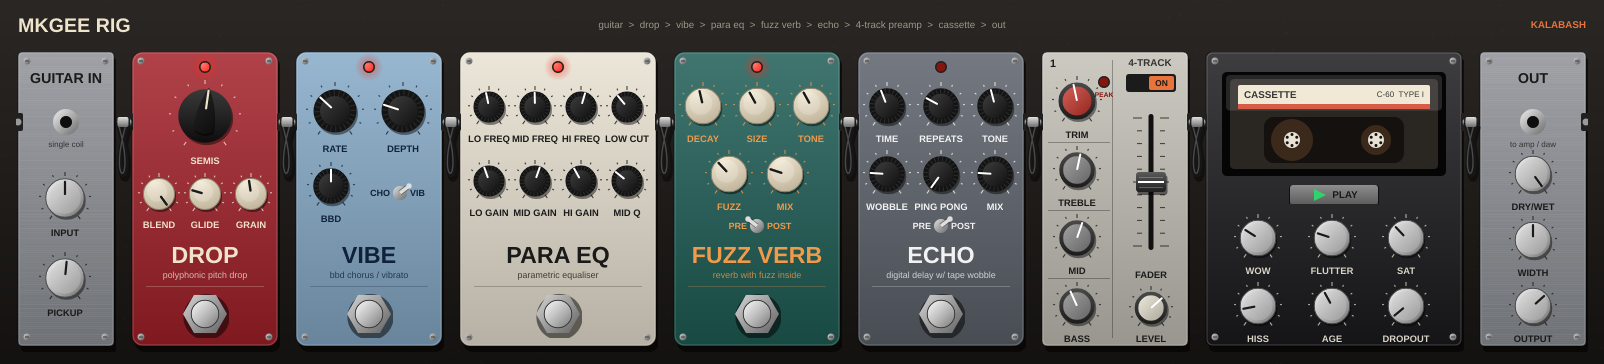
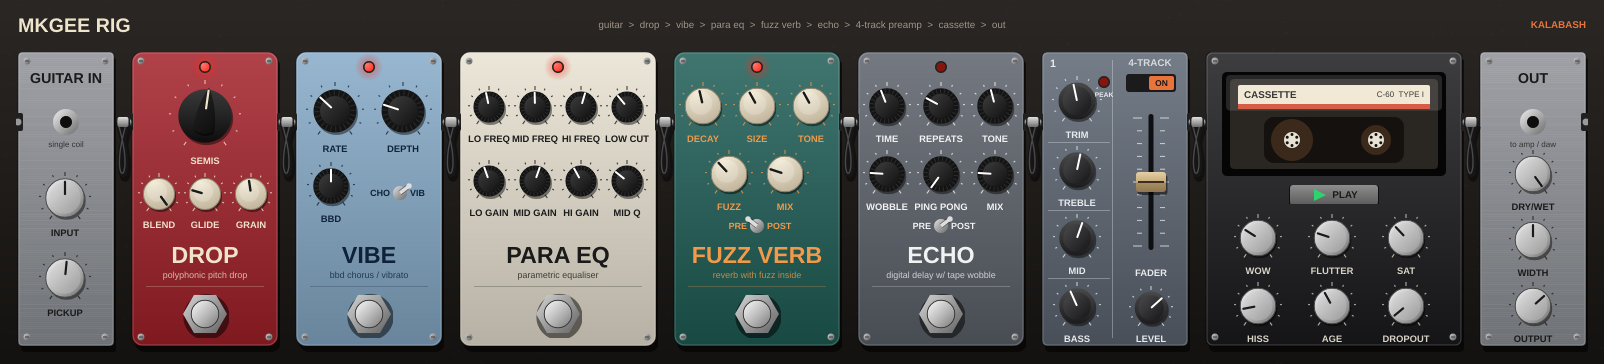
4-track strip in portastudio colours: slate panel, black knobs, tan fader
Claude-Session: https://claude.ai/code/session_01DY6jYK2dV1BTHacjKxHW16

Changed region(s): [[0.6234, 0.1209, 0.7481, 0.967]]

diff --git a/plugin/Source/PluginEditor.cpp b/plugin/Source/PluginEditor.cpp
@@ -142,15 +142,16 @@ void LookAndFeel::drawRotarySlider (Graphics& g, int x, int y, int w, int h, flo
 }
 
 void LookAndFeel::drawLinearSlider (Graphics& g, int x, int y, int w, int h, float pos, float, float,
-                                    Slider::SliderStyle, Slider&)
+                                    Slider::SliderStyle, Slider& s)
 {
     auto r = Rectangle<float> ((float) x, (float) y, (float) w, (float) h);
     const float cx = r.getCentreX();
+    const auto ink = Colour::fromString (s.getProperties().getWithDefault ("ink", "ff1a1a1a").toString());
     // slot
-    g.setColour (Colour (0xff111111));
+    g.setColour (Colour (0xff0d0f12));
     g.fillRoundedRectangle (cx - 2.5f, r.getY() - 4.0f, 5.0f, r.getHeight() + 8.0f, 2.5f);
     // scale
-    g.setColour (kInk.withAlpha (0.8f));
+    g.setColour (ink.withAlpha (0.8f));
     for (int i = 0; i <= 10; ++i)
     {
         const float yy = r.getY() + r.getHeight() * (float) i / 10.0f;
@@ -158,18 +159,16 @@ void LookAndFeel::drawLinearSlider (Graphics& g, int x, int y, int w, int h, flo
         g.drawLine (cx - 9.0f - len, yy, cx - 9.0f, yy, 1.0f);
         g.drawLine (cx + 9.0f, yy, cx + 9.0f + len, yy, 1.0f);
     }
-    // cap
+    // tan cap
     auto capR = Rectangle<float> (0, 0, 30.0f, 20.0f).withCentre ({ cx, pos });
     g.setColour (Colours::black.withAlpha (0.5f));
     g.fillRoundedRectangle (capR.translated (1.5f, 3.0f), 3.0f);
-    g.setGradientFill (ColourGradient (Colour (0xff5b5b5b), capR.getX(), capR.getY(), Colour (0xff1e1e1e), capR.getX(), capR.getBottom(), false));
+    ColourGradient grad (Colour (0xffe4cfa4), capR.getX(), capR.getY(), Colour (0xff8f7752), capR.getX(), capR.getBottom(), false);
+    grad.addColour (0.48, Colour (0xffc9ae7d));
+    grad.addColour (0.52, Colour (0xffa88f63));
+    g.setGradientFill (grad);
     g.fillRoundedRectangle (capR, 3.0f);
-    for (int i = 1; i < 4; ++i)
-    {
-        g.setColour (Colour (0x40ffffff));
-        g.drawHorizontalLine ((int) (capR.getY() + capR.getHeight() * (float) i / 4.0f), capR.getX() + 3, capR.getRight() - 3);
-    }
-    g.setColour (Colours::white);
+    g.setColour (Colour (0xff3a2f1f));
     g.fillRect (capR.getX() + 2, capR.getCentreY() - 1.0f, capR.getWidth() - 4, 2.0f);
 }
 
@@ -191,23 +190,35 @@ Knob::Knob (AudioProcessorValueTreeState& s, const String& id, const String& l, 
     if (auto* p = s.getParameter (id))
         slider.setDoubleClickReturnValue (true, (double) p->convertFrom0to1 (p->convertTo0to1 (defaultFor (id))));
     slider.setTooltip (label);
+    setInterceptsMouseClicks (false, true);
 }
 
 void Knob::resized()
 {
     auto r = getLocalBounds();
-    r.removeFromBottom (14);
-    slider.setBounds (r);
+    if (labelSide == 1)      slider.setBounds (r.removeFromLeft (r.getHeight()));
+    else if (labelSide == 2) slider.setBounds (r.removeFromRight (r.getHeight()));
+    else                     slider.setBounds (r.withTrimmedBottom (14));
 }
 
 void Knob::paint (Graphics& g)
 {
     g.setColour (labelColour);
-    g.setFont (font (10.5f));
-    g.drawFittedText (label.toUpperCase(), getLocalBounds().removeFromBottom (14), Justification::centred, 1);
+    auto r = getLocalBounds();
+    if (labelSide == 0)
+    {
+        g.setFont (font (10.5f));
+        g.drawFittedText (label.toUpperCase(), r.removeFromBottom (14), Justification::centred, 1);
+        return;
+    }
+    // channel-strip style: small caps label beside the knob with a leader line
+    g.setFont (font (9.0f));
+    const bool right = labelSide == 1;
+    auto text = right ? r.withTrimmedLeft (r.getHeight() + 2) : r.withTrimmedRight (r.getHeight() + 2);
+    g.drawFittedText (label.toUpperCase(), text, right ? Justification::centredLeft : Justification::centredRight, 1);
 }
 
-Fader::Fader (AudioProcessorValueTreeState& s, const String& id, Colour lc) : labelColour (lc)
+Fader::Fader (AudioProcessorValueTreeState& s, const String& id, Colour lc, String cap) : labelColour (lc), caption (cap)
 {
     slider.setSliderStyle (Slider::LinearVertical);
     slider.setTextBoxStyle (Slider::NoTextBox, false, 0, 0);
@@ -223,7 +234,7 @@ void Fader::paint (Graphics& g)
 {
     g.setColour (labelColour);
     g.setFont (font (10.5f));
-    g.drawFittedText ("FADER", getLocalBounds().removeFromBottom (14), Justification::centred, 1);
+    g.drawFittedText (caption, getLocalBounds().removeFromBottom (18), Justification::centred, 1);
 }
 
 // =====================================================================================
@@ -336,9 +347,10 @@ Knob& Unit::knob (const String& id, const String& label, KnobStyle style, Rectan
     return ref;
 }
 
-void Unit::fader (const String& id, Rectangle<int> r)
+void Unit::fader (const String& id, Rectangle<int> r, String caption)
 {
-    auto f = std::make_unique<Fader> (proc.apvts, id, ink);
+    auto f = std::make_unique<Fader> (proc.apvts, id, ink, caption);
+    f->slider.getProperties().set ("ink", ink.toString());
     addAndMakeVisible (*f);
     f->setBounds (r);
     parts.emplace_back (std::move (f), r);
@@ -500,9 +512,9 @@ void Unit::paintStrip (Graphics& g)
     g.setFont (font (12.0f));
     g.drawText ("1", Rectangle<int> (10, 4, 20, 14), Justification::centredLeft);
     paintLed (g, { 64.0f, 30.0f }, peak, Colour (0xffff2a1a));
+    g.setColour (ink);
     g.setFont (font (7.5f));
     g.drawText ("PEAK", Rectangle<int> (52, 38, 24, 10), Justification::centred);
-    // name printed vertically down the fader side
     g.setFont (font (11.0f));
     g.setColour (ink.withAlpha (0.85f));
     g.drawFittedText (name, Rectangle<int> (76, 4, getWidth() - 82, 14), Justification::centred, 1);
@@ -621,16 +633,17 @@ Board::Board (MkgeeRigProcessor& p) : proc (p)
         u->button ("echo_pos", ParamButton::Mini, { 35, 162, 100, 24 }, "PRE", "POST");
         u->button ("echo_on", ParamButton::Foot, { 61, 238, 48, 48 });
     }
-    // ---- 4-TRACK CHANNEL STRIP
+    // ---- 4-TRACK CHANNEL STRIP (portastudio colours: slate panel, black knobs, tan fader)
     {
-        strip = add (new Unit (p, Unit::Strip, Colour (0xffc4c1b8), kInk, "4-TRACK", "", "pre_on"), 150);
-        strip->knob ("pre_trim", "Trim", Mixer, { 8, 22, 58, 68 }, Colour (0xffc8372d));
-        strip->knob ("pre_treble", "Treble", Mixer, { 8, 92, 58, 66 }, Colour (0xff8a8a8a));
-        strip->knob ("pre_mid", "Mid", Mixer, { 8, 160, 58, 66 }, Colour (0xff8a8a8a));
-        strip->knob ("pre_bass", "Bass", Mixer, { 8, 228, 58, 66 }, Colour (0xff8a8a8a));
+        const Colour knobCap (0xff1e1f22);
+        strip = add (new Unit (p, Unit::Strip, Colour (0xff5d6673), Colour (0xffe9ebee), "4-TRACK", "", "pre_on"), 150);
+        strip->knob ("pre_trim", "Trim", Mixer, { 8, 22, 58, 68 }, knobCap);
+        strip->knob ("pre_treble", "Treble", Mixer, { 8, 92, 58, 66 }, knobCap);
+        strip->knob ("pre_mid", "Mid", Mixer, { 8, 160, 58, 66 }, knobCap);
+        strip->knob ("pre_bass", "Bass", Mixer, { 8, 228, 58, 66 }, knobCap);
         strip->button ("pre_on", ParamButton::Rocker, { 86, 22, 50, 18 });
         strip->fader ("pre_fader", { 82, 44, 58, 186 });
-        strip->knob ("pre_level", "Level", Mixer, { 82, 232, 58, 62 }, Colour (0xffe9e3d3));
+        strip->knob ("pre_level", "Level", Mixer, { 82, 232, 58, 62 }, knobCap);
     }
     // ---- CASSETTE
     {

diff --git a/plugin/Source/PluginEditor.h b/plugin/Source/PluginEditor.h
@@ -25,6 +25,8 @@ public:
     void resized() override;
     void paint (juce::Graphics&) override;
     juce::Slider slider;
+    int labelSide = 0;   // 0 below, 1 right of knob, 2 left of knob
+    void setLabelSide (int s) { labelSide = s; resized(); repaint(); }
 private:
     juce::String label;
     juce::Colour labelColour;
@@ -34,12 +36,13 @@ private:
 class Fader : public juce::Component
 {
 public:
-    Fader (juce::AudioProcessorValueTreeState&, const juce::String& id, juce::Colour labelColour);
+    Fader (juce::AudioProcessorValueTreeState&, const juce::String& id, juce::Colour labelColour, juce::String caption = "FADER");
     void resized() override;
     void paint (juce::Graphics&) override;
     juce::Slider slider;
 private:
     juce::Colour labelColour;
+    juce::String caption;
     std::unique_ptr<juce::AudioProcessorValueTreeState::SliderAttachment> att;
 };
 
@@ -68,7 +71,7 @@ public:
 
     Knob& knob (const juce::String& id, const juce::String& label, KnobStyle, juce::Rectangle<int>,
                 juce::Colour cap = juce::Colours::white);
-    void fader (const juce::String& id, juce::Rectangle<int>);
+    void fader (const juce::String& id, juce::Rectangle<int>, juce::String caption = "FADER");
     void button (const juce::String& id, ParamButton::Kind, juce::Rectangle<int>, juce::String a = {}, juce::String b = {});
 
     void paint (juce::Graphics&) override;
